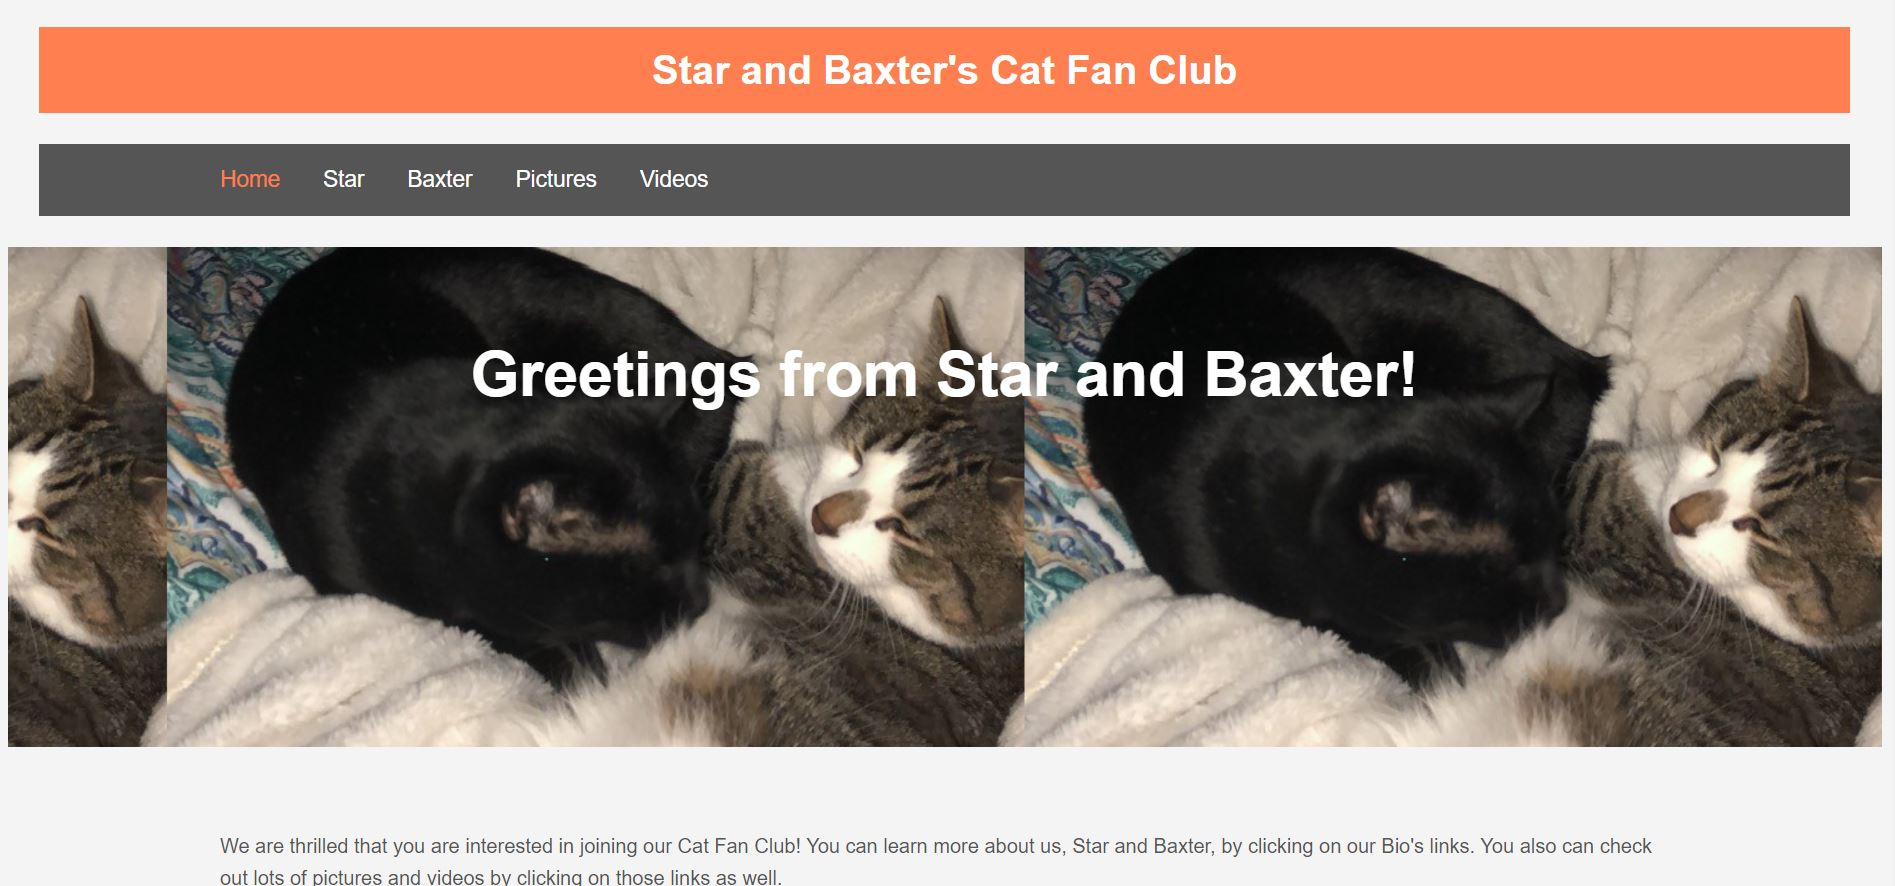
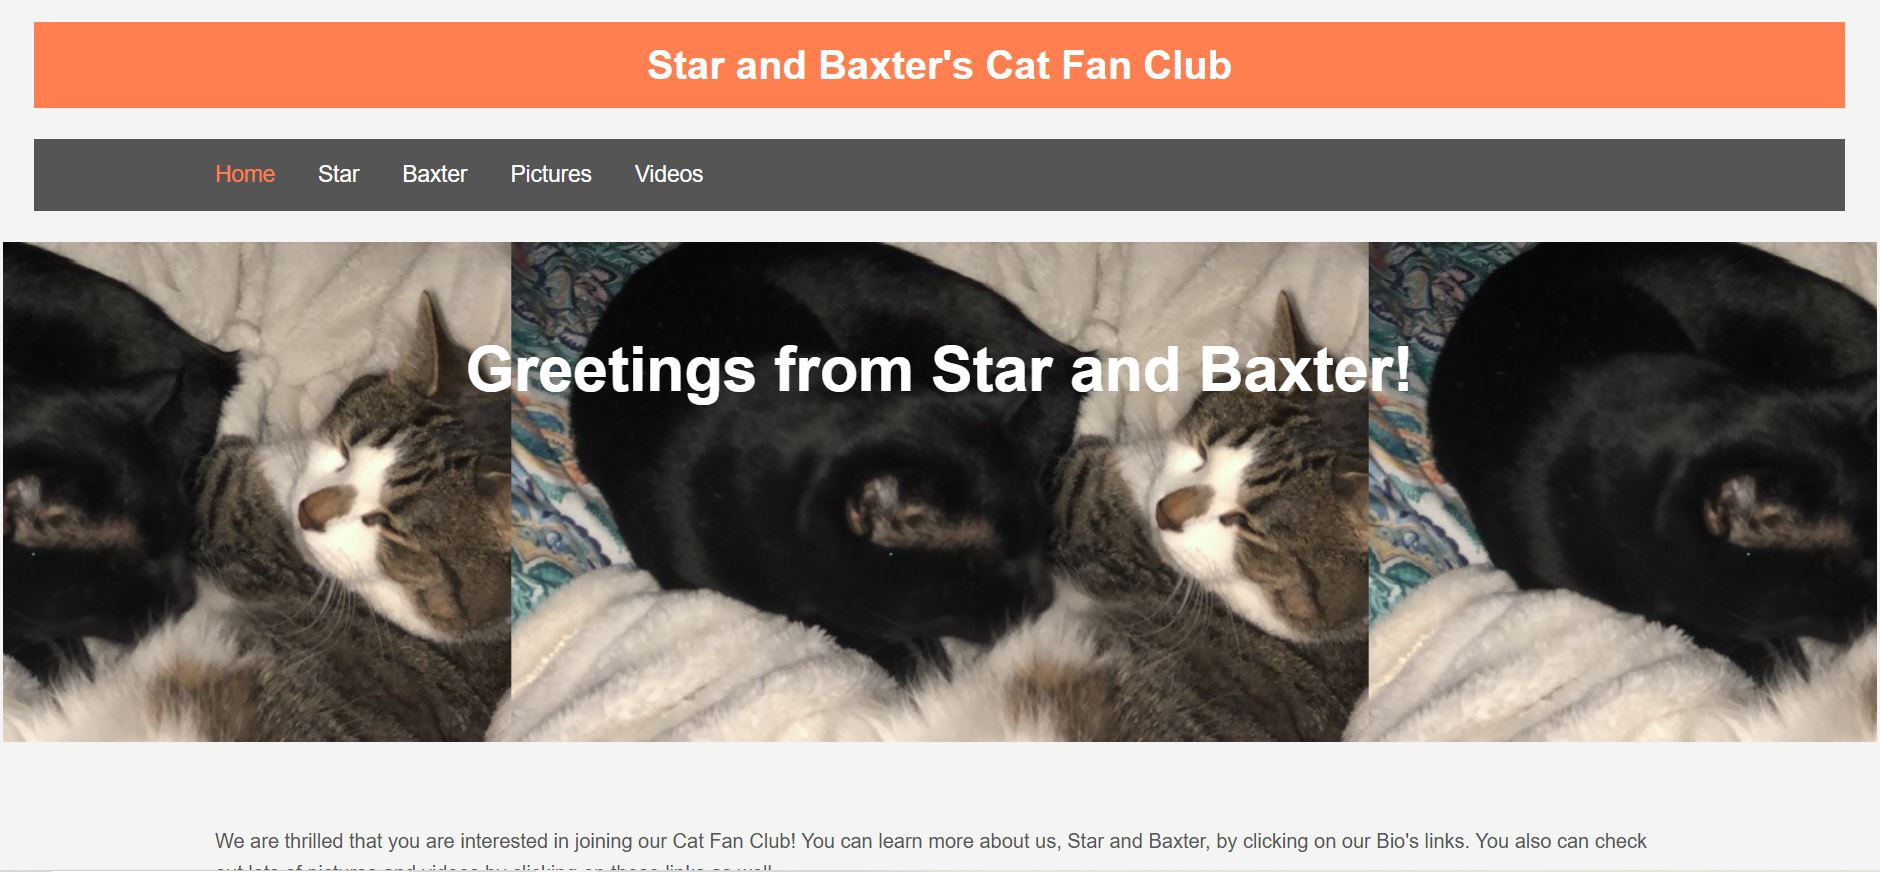
modified an image and added Cat Fan Club (That was my very first website)

diff --git a/index.html b/index.html
@@ -201,6 +201,16 @@
                   <a href="https://eduggan2008.github.io/musicplayersample/" class="project-link" target="_blank">Go to Website</a>
               </div>
           
+            
+                <div class="project">
+                  <div class="project-text">
+                      <h2 class="project-name">Cat Fan Club</h2>
+                      <h4 class="project-built-using">HTML/CSS/JavaScript</h4>
+                  </div>
+                  <img src="images/cat-fan-club.jpg" alt="" class="project-img">
+                  <a href="https://eduggan2008.github.io/catfanclubsamplesite/" class="project-link" target="_blank">Go to Website</a>
+              </div>
+          
             </div>
         </section>
         <!-- End of Section-2 -->
